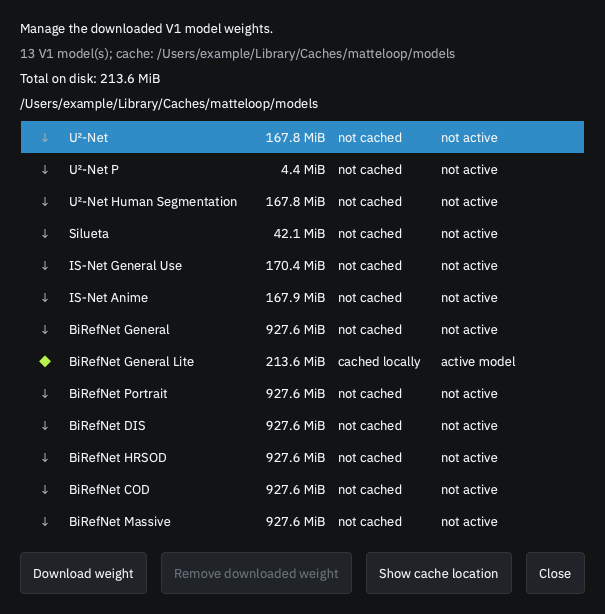
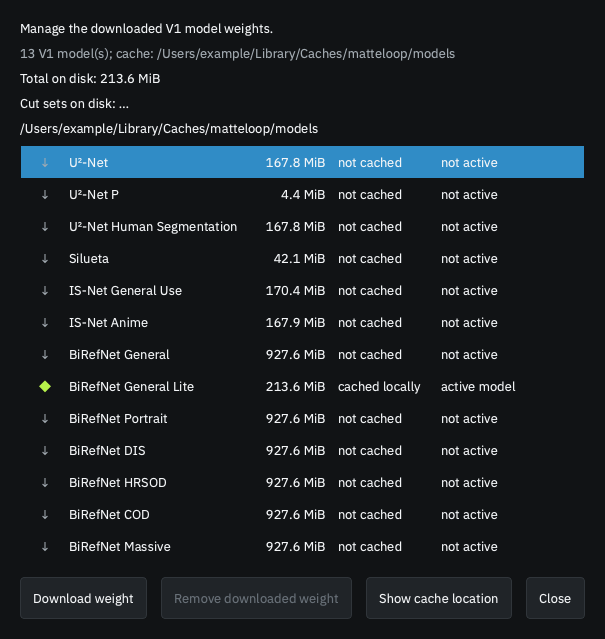
📝 docs(readme): show exclusion regions
✨ Feature
- ✨ Seed one exclusion region through the screenshot script’s existing state seam.

📝 Docs
- 📝 Describe exclusion regions beside the cleanup controls.
- 🖼 Regenerate all tracked README screenshots from the real widgets.

Refs #80

diff --git a/scripts/screenshots.py b/scripts/screenshots.py
@@ -29,6 +29,7 @@ from PySide6.QtGui import QImage
 from PySide6.QtWidgets import QApplication, QStyleFactory, QWidget
 
 from matteloop.core.parameters import ParameterState
+from matteloop.core.specs import CropSpec
 from matteloop.core.state import (
     AppState,
     PreviewRequested,
@@ -123,6 +124,7 @@ def _state(metadata: object, source_frame: QImage, result_frame: QImage) -> AppS
             parameters=ParameterState(
                 model_id=_MODEL_ID,
                 output_directory=_OUTPUT_DIRECTORY,
+                exclusions=(CropSpec(560, 32, 150, 88),),
             )
         ),
         SourceLoadRequested(_SOURCE_ID, _LOAD_REQUEST_ID),

diff --git a/README.md b/README.md
@@ -26,6 +26,8 @@ composite. MatteLoop is the whole path from that clip to that loop:
 - **Preview a single frame** to judge the cutout before committing to a render.
 - **Trim, crop and resize** the finished cut, and watch it loop on screen until
   it is right.
+- **Mark exclusion regions** over burned-in overlays or other unwanted
+  foreground; those areas are made transparent after segmentation.
 - **Render** a lossless transparent animated WebP.
 - **Choose or clear the output directory** in the inspector's Output section.
 - **Replace the open clip** by dropping another video onto the window, or with
